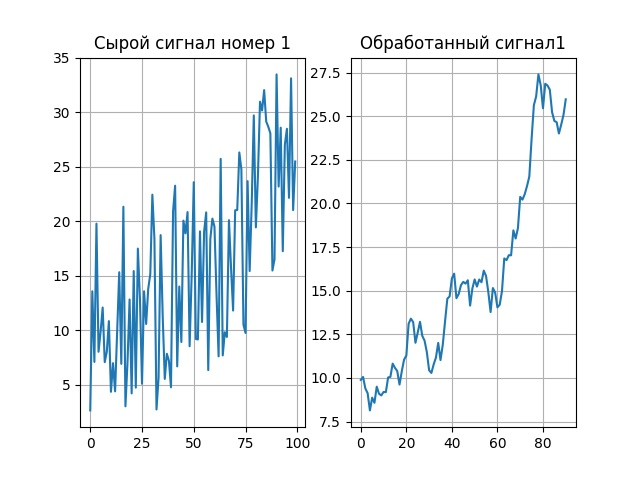
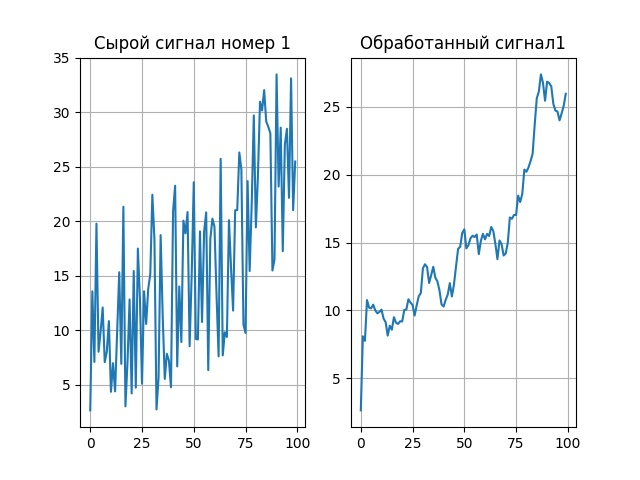
issues is fixed

diff --git a/second_part/main.py b/second_part/main.py
@@ -1,13 +1,25 @@
 import numpy as np
 import matplotlib.pyplot as plt
 
+def average_start(n):
+    global data
+    return data[max(0, n-9): n + 1].mean()
 
 file_names = ['signal01.dat', 'signal02.dat', 'signal03.dat']
 result_numbers = [i+1 for i in range(len(file_names))]
 
 for file_name, i in zip(file_names, result_numbers):
-    data = np.genfromtxt(file_name)
+    data = np.genfromtxt(file_name, dtype=float)
     fit_data = np.convolve(data, np.ones((10,)) / 10, mode='valid')
+    n_data = []
+    for j in range(9):
+        n_data.append(average_start(j))
+    fit_data = np.hstack((n_data, fit_data))
+    #print(len(n_data))
+
+
+    #print(data.shape, np.hstack((average_start(data)[:9], fit_data)).shape)
+    print(data.shape, fit_data.shape)
 
     plt.subplot(1, 2, 1)
     plt.grid()
